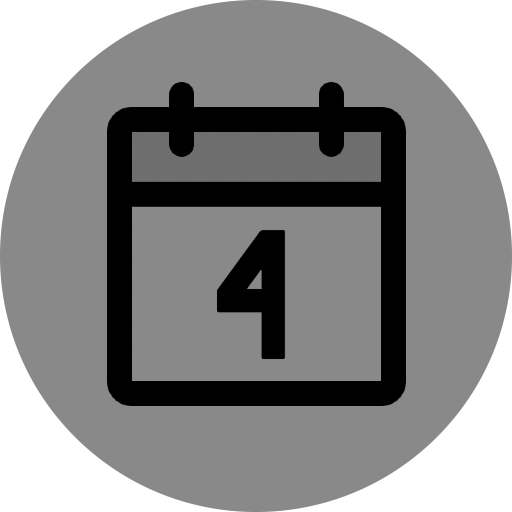
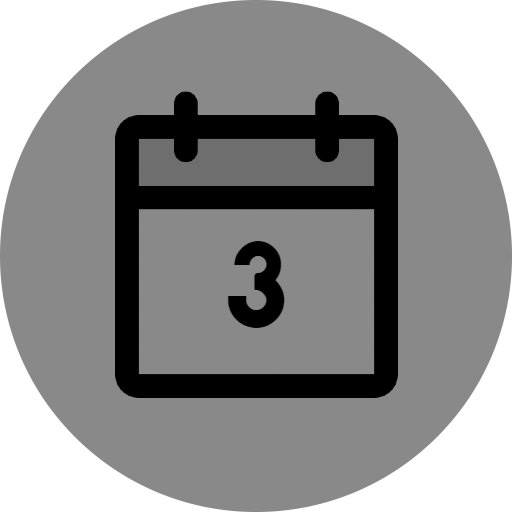
Version 0.6 - Info modified (4 > 3 meses)

Changed region(s): [[0.1875, 0.1562, 0.8125, 0.8125]]

diff --git a/FAQs.html b/FAQs.html
@@ -40,11 +40,11 @@
             <article class="questionsContainer">
                 <section class="firstQ">
                     <h3>
-                        ¿Cómo funciona el descuento de cada 4 meses?
+                        ¿Cómo funciona el descuento de cada 3 meses?
                     </h3>
                     <p>
                         Tenemos un sistema secreto donde tenemos registrados a nuestros clientes, en este contamos la número exacto de meses que llevan en nuestro plan, así que sabemos en que momento se aplica el descuento. Esta cantidad de tiempo se reinicia si te sales del plan.<br>
-                        Por ejemplo, si llevas dos meses y decides salirte, cuando vuelvas a entrar, no te faltarán dos meses para el descuento, sino los <span class="bolder">cuatro enteritos</span>. 
+                        Por ejemplo, si llevas dos meses y decides salirte, cuando vuelvas a entrar, no te faltará un mes para el descuento, sino los <span class="bolder">tres enteritos</span>. 
                         <br>
                         Por lo cual... ¡Piénsalo dos veces antes de dejar nuestro plan!
                     </p>
@@ -61,7 +61,7 @@
                                 Si intentas entrar en el mes de tu cumpleaños, no se aplicará el descuento sino hasta el próximo mes, ya que debes tener un mes de antigüedad en nuestro plan, pero si ya lo tienes no pasa nada.
                             </li>
                             <li>
-                                Si cumples años y, a la vez, cumples los 4 meses en nuestro plan de Spotify, se te harán los descuentos al mismo tiempo.
+                                Si cumples años y, a la vez, cumples los 3 meses en nuestro plan de Spotify, se te harán los descuentos al mismo tiempo.
                             </li>
                         </ul>
                     <p>

diff --git a/index.html b/index.html
@@ -52,7 +52,7 @@
                     <figure class="picture">
                         <img src="./imagenes/mes.png" alt="descuentoMes">
                     </figure>
-                    <span class="imgsTxt">Ahorra 30% del plan cada 4 meses</span>
+                    <span class="imgsTxt">Ahorra 30% del plan cada 3 meses</span>
                     <figure class="picture">
                         <img src="./imagenes/specialdates.png" alt="descuentoDiaEspecial">
                     </figure>
